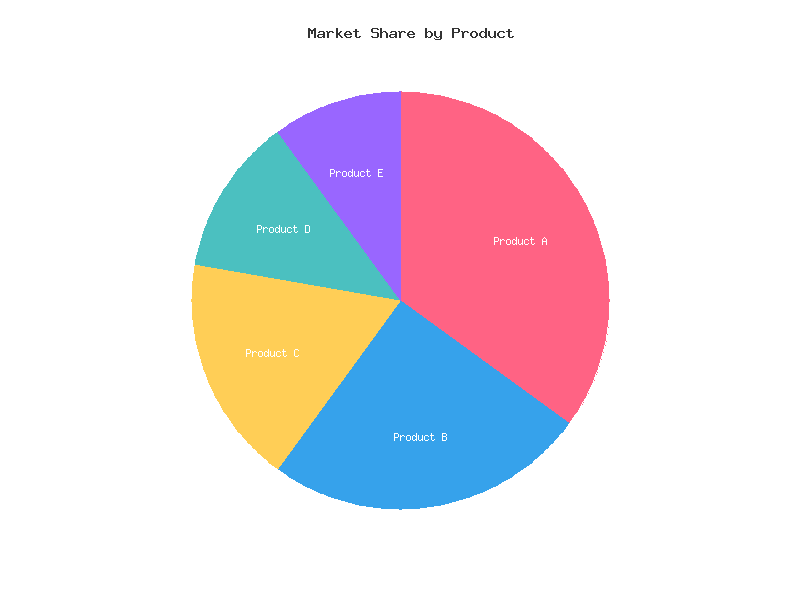
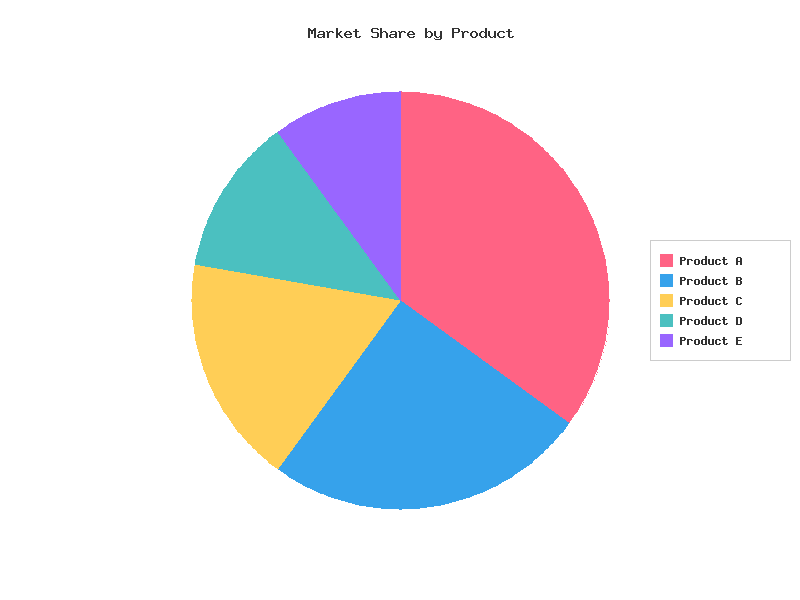
fix pi charts

diff --git a/src/Renderer/SvgRenderer.php b/src/Renderer/SvgRenderer.php
@@ -83,7 +83,7 @@ final class SvgRenderer implements RendererInterface
 
         // Render legend
         if ($legendConfig->isEnabled()) {
-            $svg .= $this->renderLegend($dataSeries, $legendConfig);
+            $svg .= $this->renderLegend($dataSeries, $legendConfig, $type);
         }
 
         $svg .= '</svg>';
@@ -1022,9 +1022,10 @@ final class SvgRenderer implements RendererInterface
      *
      * @param array<DataSeries> $dataSeries Data series to show in legend
      * @param LegendConfiguration $legendConfig Legend configuration
+     * @param ChartType $type Chart type to determine legend rendering strategy
      * @return string SVG content for legend
      */
-    private function renderLegend(array $dataSeries, LegendConfiguration $legendConfig): string
+    private function renderLegend(array $dataSeries, LegendConfiguration $legendConfig, ChartType $type): string
     {
         $content = '';
 
@@ -1041,8 +1042,34 @@ final class SvgRenderer implements RendererInterface
         $bgColor = ColorParser::parse($legendConfig->getBackgroundColor());
         $borderColor = ColorParser::parse($legendConfig->getBorderColor());
 
+        // For pie charts, show each slice (data point) instead of series
+        $legendItems = [];
+        if ($type === ChartType::Pie && count($dataSeries) > 0) {
+            $series = $dataSeries[0]; // Pie chart uses first series only
+            $points = $series->getPoints();
+
+            // Default color palette for slices
+            $colors = [
+                '#FF6384', '#36A2EB', '#FFCE56', '#4BC0C0', '#9966FF',
+                '#FF9F40', '#FF6384', '#C9CBCF', '#4BC0C0', '#FF6384',
+            ];
+
+            foreach ($points as $index => $point) {
+                $color = $point->color ?? $series->getLineColor() ?? $colors[$index % count($colors)];
+                $label = $point->label ?? "Slice $index";
+                $legendItems[] = ['label' => $label, 'color' => $color];
+            }
+        } else {
+            // For other chart types, show series
+            foreach ($dataSeries as $series) {
+                $color = $series->getLineColor() ?? '#3498db';
+                $label = $series->getName();
+                $legendItems[] = ['label' => $label, 'color' => $color];
+            }
+        }
+
         // Calculate legend dimensions
-        $legendHeight = count($dataSeries) * $itemHeight + $padding * 2;
+        $legendHeight = count($legendItems) * $itemHeight + $padding * 2;
         $legendWidth = $itemWidth + $padding * 2;
 
         // Determine position
@@ -1070,8 +1097,8 @@ final class SvgRenderer implements RendererInterface
 
         // Draw legend items
         $itemY = $y + $padding;
-        foreach ($dataSeries as $series) {
-            $seriesColor = ColorParser::parse($series->getLineColor() ?? '#3498db');
+        foreach ($legendItems as $item) {
+            $itemColor = ColorParser::parse($item['color']);
 
             // Draw color symbol
             $content .= sprintf(
@@ -1080,12 +1107,12 @@ final class SvgRenderer implements RendererInterface
                 $itemY + ($itemHeight - $symbolSize) / 2,
                 $symbolSize,
                 $symbolSize,
-                $seriesColor['r'],
-                $seriesColor['g'],
-                $seriesColor['b']
+                $itemColor['r'],
+                $itemColor['g'],
+                $itemColor['b']
             );
 
-            // Draw series name
+            // Draw item label
             $content .= sprintf(
                 '<text x="%.2f" y="%.2f" font-size="%d" fill="rgb(%d,%d,%d)" text-anchor="start">%s</text>',
                 $x + $padding + $symbolSize + 8,
@@ -1094,7 +1121,7 @@ final class SvgRenderer implements RendererInterface
                 $textColor['r'],
                 $textColor['g'],
                 $textColor['b'],
-                htmlspecialchars($series->getName(), ENT_XML1, 'UTF-8')
+                htmlspecialchars($item['label'], ENT_XML1, 'UTF-8')
             );
 
             $itemY += $itemHeight;

diff --git a/src/Renderer/RasterRenderer.php b/src/Renderer/RasterRenderer.php
@@ -96,7 +96,7 @@ final class RasterRenderer implements RendererInterface
 
         // Render legend
         if ($legendConfig->isEnabled()) {
-            $this->renderLegend($dataSeries, $legendConfig);
+            $this->renderLegend($dataSeries, $legendConfig, $type);
         }
 
         // Output image
@@ -696,14 +696,40 @@ final class RasterRenderer implements RendererInterface
     /**
      * @param array<DataSeries> $dataSeries
      */
-    private function renderLegend(array $dataSeries, LegendConfiguration $legendConfig): void
+    private function renderLegend(array $dataSeries, LegendConfiguration $legendConfig, ChartType $type): void
     {
         $itemHeight = 20;
         $itemWidth = 120;
         $padding = 10;
         $symbolSize = 12;
 
-        $legendHeight = count($dataSeries) * $itemHeight + $padding * 2;
+        // For pie charts, show each slice (data point) instead of series
+        $legendItems = [];
+        if ($type === ChartType::Pie && count($dataSeries) > 0) {
+            $series = $dataSeries[0]; // Pie chart uses first series only
+            $points = $series->getPoints();
+
+            // Default color palette for slices
+            $colors = [
+                '#FF6384', '#36A2EB', '#FFCE56', '#4BC0C0', '#9966FF',
+                '#FF9F40', '#FF6384', '#C9CBCF', '#4BC0C0', '#FF6384',
+            ];
+
+            foreach ($points as $index => $point) {
+                $color = $point->color ?? $series->getLineColor() ?? $colors[$index % count($colors)];
+                $label = $point->label ?? "Slice $index";
+                $legendItems[] = ['label' => $label, 'color' => $color];
+            }
+        } else {
+            // For other chart types, show series
+            foreach ($dataSeries as $series) {
+                $color = $series->getLineColor() ?? '#3498db';
+                $label = $series->getName();
+                $legendItems[] = ['label' => $label, 'color' => $color];
+            }
+        }
+
+        $legendHeight = count($legendItems) * $itemHeight + $padding * 2;
         $legendWidth = $itemWidth + $padding * 2;
 
         // Determine position
@@ -724,20 +750,20 @@ final class RasterRenderer implements RendererInterface
         $textColor = $this->allocateColor($legendConfig->getTextColor());
         $itemY = (int) $y + $padding;
 
-        foreach ($dataSeries as $series) {
+        foreach ($legendItems as $item) {
             // Draw color symbol
-            $seriesColor = $this->allocateColor($series->getLineColor() ?? '#3498db');
+            $itemColor = $this->allocateColor($item['color']);
             imagefilledrectangle(
                 $this->image,
                 (int) $x + $padding,
                 $itemY + ($itemHeight - $symbolSize) / 2,
                 (int) $x + $padding + $symbolSize,
                 $itemY + ($itemHeight - $symbolSize) / 2 + $symbolSize,
-                $seriesColor
+                $itemColor
             );
 
-            // Draw series name
-            imagestring($this->image, 3, (int) $x + $padding + $symbolSize + 8, $itemY + 4, $series->getName(), $textColor);
+            // Draw item label
+            imagestring($this->image, 3, (int) $x + $padding + $symbolSize + 8, $itemY + 4, $item['label'], $textColor);
 
             $itemY += $itemHeight;
         }

diff --git a/examples/pie-chart.php b/examples/pie-chart.php
@@ -16,7 +16,7 @@ $chart->setSize(800, 600);
 $chart->setFormat(ImageFormat::SVG);
 $chart->setBackgroundColor('#ffffff');
 $chart->setTitle('Market Share by Product');
-$chart->enableDataLabels(); // Show labels on slices instead of legend
+$chart->enableLegend();
 
 // Add data series (pie chart uses first series only, each point is a slice)
 // Each point can have its own color specified as the 4th parameter